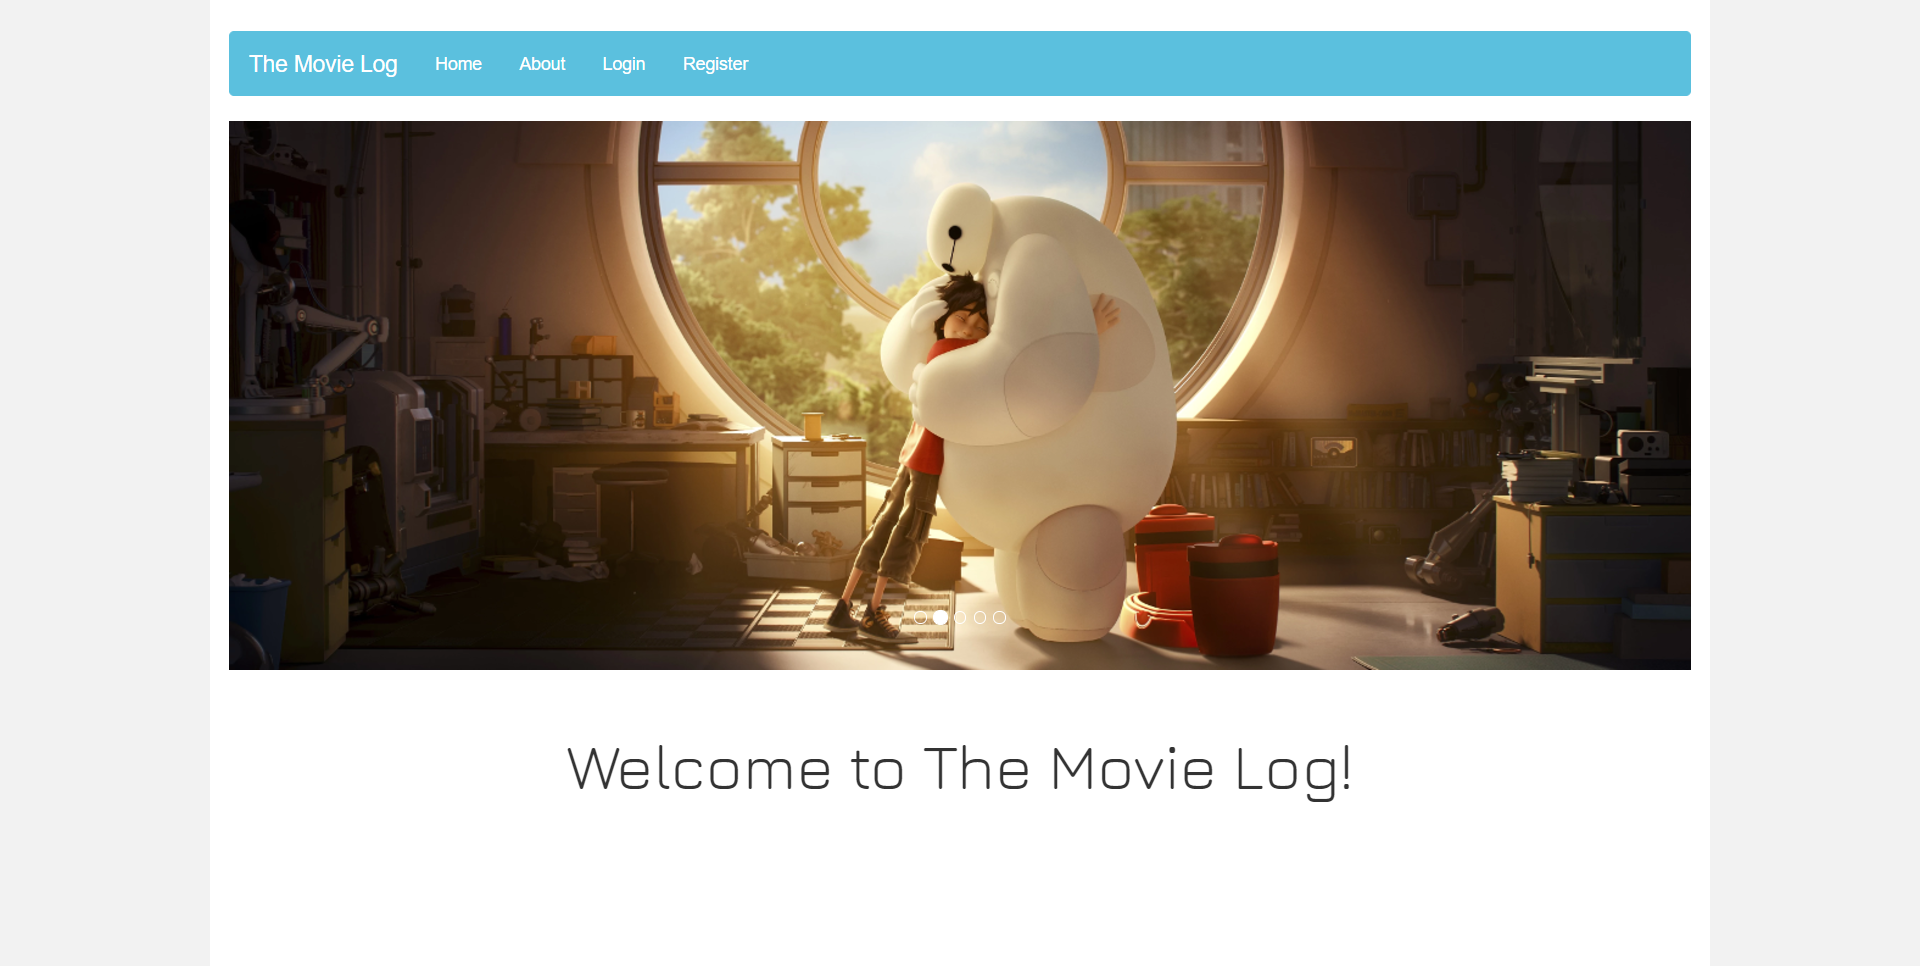
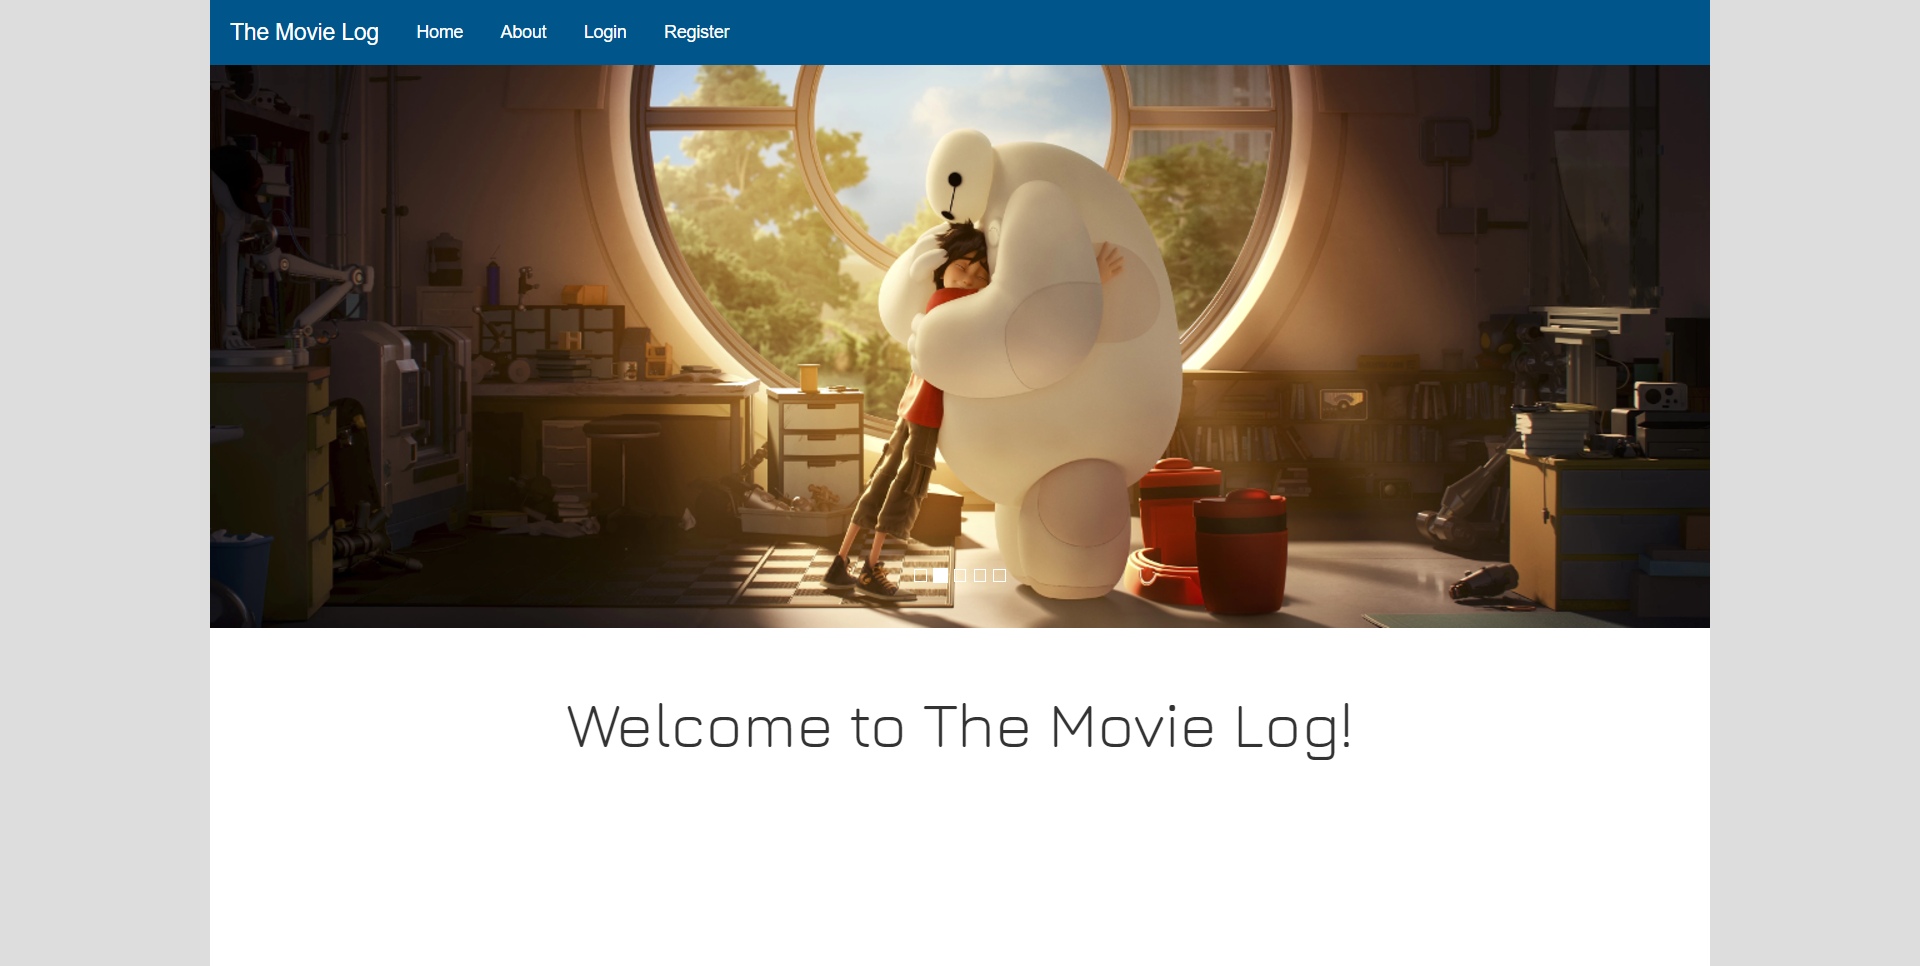
design tweaks & delete movie btn fixed

diff --git a/wwwroot/css/site.css b/wwwroot/css/site.css
@@ -1,12 +1,15 @@
+* {
+  border-radius: 0 !important;
+}
 
 h1 {
     text-align: center;
     font-family: 'Jura', sans-serif;
-    margin-top: 10px;
+    margin-top: 40px;
 }
 
 body {
-  background-color: #f2f2f2;
+  background-color: #dddddd;
   height: 100%; 
   width: 100%; 
   margin: 0;
@@ -19,6 +22,11 @@ html {
 }
 
 p {
+  font-family: Verdana, Geneva, Tahoma, sans-serif;
+  font-size: 13px;
+}
+
+td {
   font-family: Verdana, Geneva, Tahoma, sans-serif;
   font-size: 13px;
 }
@@ -36,7 +44,7 @@ p {
     background-color: white;
     display: block;
     margin: 0 auto;
-    padding-bottom: 30px;
+    padding: 0px;
     height: 100%;
 }
 
@@ -48,8 +56,8 @@ p {
   margin-top: 40px;
 }
 
-/* Home Page */
 
+/* Home Page */
 .home_title {
     text-align: center;
     font-family: 'Jura', sans-serif;
@@ -57,30 +65,13 @@ p {
     font-size: 50px;
 }
 
-/*#myCarousel {
-    width: 85%;
-    display: inline-block;
-    text-align: center;
-    padding-left: 12%;
-    margin-top: 15px;
-}
 
-.carousel-indicators {
-    position: absolute;
-    bottom: 10px;
-    left: 50%;
-    z-index: 15;
-    width: 60%;
-    padding-left: 12%;
-    margin-left: -30%;
-    text-align: center;
-    list-style: none;
-}*/
 
 /* Navbar */
 .navbar-default {
-  background-color: #5BC0DE;
-  border-color: #5BC0DE;
+  background-color: #00558b;
+  border-color: #00558b;
+  margin: 0px;
 }
 .navbar-default .navbar-brand {
   color: #ffffff;
@@ -103,20 +94,20 @@ p {
 .navbar-default .navbar-nav > .active > a:hover,
 .navbar-default .navbar-nav > .active > a:focus {
   color: #e9e9e9;
-  background-color: #5BC0DE;
+  background-color: #00558b;
 }
 .navbar-default .navbar-nav > .open > a,
 .navbar-default .navbar-nav > .open > a:hover,
 .navbar-default .navbar-nav > .open > a:focus {
   color: #e9e9e9;
-  background-color: #5BC0DE;
+  background-color: #00558b;
 }
 .navbar-default .navbar-toggle {
-  border-color: #5BC0DE;
+  border-color: #00558b;
 }
 .navbar-default .navbar-toggle:hover,
 .navbar-default .navbar-toggle:focus {
-  background-color: #5BC0DE;
+  background-color: #00558b;
 }
 .navbar-default .navbar-toggle .icon-bar {
   background-color: #ffffff;
@@ -144,7 +135,7 @@ p {
   .navbar-default .navbar-nav .open .dropdown-menu > .active > a:hover,
   .navbar-default .navbar-nav .open .dropdown-menu > .active > a:focus {
     color: #e9e9e9;
-    background-color: #5BC0DE;
+    background-color: #00558b;
   }
 }
 
@@ -165,25 +156,31 @@ p {
 
 /* Add Movie */
 .search_container {
-    display: inline-block;
-    width: 300px;
-    padding: 10px;
-    margin: 10px;
-    display: none;
+  display: inline-block;
+  /*width: 300px;*/
+  padding: 10px;
+  margin: 10px;
+  display: none;
 }
 
 .search_results {
-    display: block;
-    margin: 0 auto;
+  display: block;
+  margin: 0 auto;
 }
 
 .results_container {
-    display: inline-block;
-    width: 700px;
+  display: inline-block;
+  /*width: 700px;*/
+}
+
+.result_text_container {
+  display: inline-block;
+  width: 82%;
 }
 
 .results_title {
-    text-align: center;
+  text-align: center;
+  width: 100%;
 }
 
 .results_text {
@@ -197,19 +194,24 @@ p {
 
 .result_release {
     display: inline-block;
-    width: 500px;
+    width: 100%;
     font-style: italic;
 }
 
+.result_btn {
+  display: inline-block;
+}
+
 .response_summary {
-    display: inline-block;
-    width: 550px;
-    margin-right: 30px;
+  display: inline-block;
+  /*width: 60%;*/
+  margin-right: 30px;
 }
 
 .result_image {
     display: inline-block;
     vertical-align: top;
+    margin-top: 25px;
 }
 
 /* Lists */
@@ -221,6 +223,7 @@ p {
 .list_container {
   display: block;
   margin: 0 auto;
+  /*margin-top: 20px;*/
   width: 75%;
 }
 
@@ -293,6 +296,8 @@ ul {
 }
 
 .profile_title {
+  font-family: 'Jura', sans-serif;
+  font-size: 15px;
   font-weight: bold;
   margin-top: 20px;
   margin-bottom: 5px;
@@ -309,4 +314,11 @@ ul {
   width: 70%;
   height: 250px;
   overflow: auto;
+}
+
+.user_profile_title {
+    text-align: center;
+    font-family: 'Jura', sans-serif;
+    margin-top: 20px;
+    font-size: 30px;
 }

diff --git a/wwwroot/js/site.js b/wwwroot/js/site.js
@@ -23,15 +23,18 @@ function search() {
 
         $(".results_title").empty();
         $(".results_title").append("<h3>Which movie?</h3><hr>");
+        $('.container').css('height', '');
 
         
 
         for(var item = 0; item < 10; item++) {
-            $(".search_results").append("<h3 class='result_title'>"+response.results[item].title+"</h3>");
-            $(".search_results").append("<p class='result_release'>"+response.results[item].release_date+"</p>");
-            $(".search_results").append("<p class='result_select response_summary'>"+response.results[item].overview+"</p>");
-            $(".search_results").append("<img src='https://image.tmdb.org/t/p/w500"+response.results[item].poster_path+"' style='max-width:200px;max-height:150px' class='result_image'>"); 
-            $(".search_results").append("<button name='button' class='result_select btn btn-default' movie_id='"+response.results[item].id+"'movie_title='"+response.results[item].title+"' movie_release='"+response.results[item].release_date+"'>Choose Film</button><hr>");
+            // $(".search_results").append("<h3 class='result_title'>"+response.results[item].title+"</h3>");
+            // $(".search_results").append("<p class='result_release'>"+response.results[item].release_date+"</p>");
+            // $(".search_results").append("<p class='result_select response_summary'>"+response.results[item].overview+"</p>");
+            // $(".search_results").append("<img src='https://image.tmdb.org/t/p/w500"+response.results[item].poster_path+"' style='max-width:200px;max-height:150px' class='result_image'>"); 
+            // $(".search_results").append("<button name='button' class='result_select btn btn-default result_btn' movie_id='"+response.results[item].id+"'movie_title='"+response.results[item].title+"' movie_release='"+response.results[item].release_date+"'>Choose Film</button><hr>");
+
+            $(".search_results").append("<div class='result_text_container'><h3 class='result_title'>"+response.results[item].title+"</h3><p class='result_release'>"+response.results[item].release_date+"</p><p class='result_select response_summary'>"+response.results[item].overview+"</p><br><button name='button' class='result_select btn btn-default result_btn' movie_id='"+response.results[item].id+"'movie_title='"+response.results[item].title+"' movie_release='"+response.results[item].release_date+"'>Choose Film</button></div><img src='https://image.tmdb.org/t/p/w500"+response.results[item].poster_path+"' style='max-width:200px;max-height:150px' class='result_image'><hr>")
         }
     });
 }

diff --git a/Controllers/ListsController.cs b/Controllers/ListsController.cs
@@ -94,7 +94,7 @@ namespace MovieLog.Controllers
 
 
         [HttpPost]
-        [Route("delete_movie/{MovieId}/{ListId}")]
+        [Route("lists/delete_movie/{MovieId}/{ListId}")]
         public IActionResult DeleteMovie(int MovieId, int ListId) {
 
             System.Console.WriteLine("**************************");
@@ -107,7 +107,7 @@ namespace MovieLog.Controllers
             }
             _context.SaveChanges();
 
-            return RedirectToAction("Index");
+            return RedirectToAction("DisplayList", ListId);
         }        
 
         [HttpPost]
